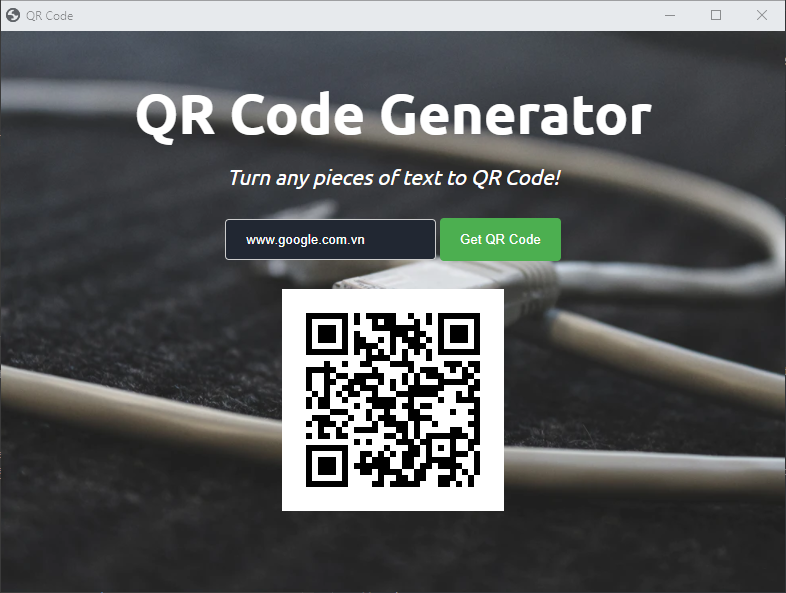
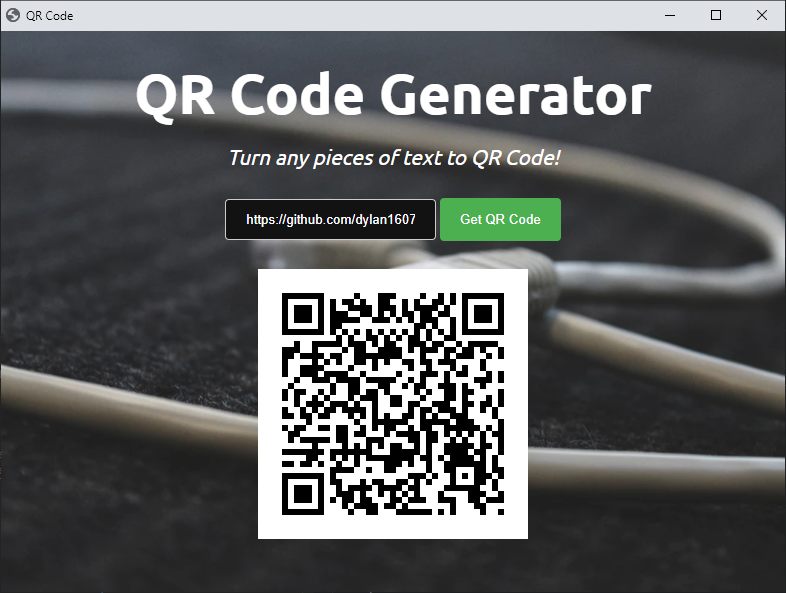
update

Changed region(s): [[0.1527, 0.1214, 0.8244, 0.9106], [0.0305, 0.0, 0.0916, 0.0304], [0.9466, 0.0, 0.9771, 0.0304]]

diff --git a/web/css/style.css b/web/css/style.css
@@ -20,7 +20,7 @@ html {
     text-align: center;
     flex-direction: column;
     justify-content: space-between;
-    padding: 50px 0;
+    padding: 30px 0;
 }
 
 .landing .max-width .heading {

diff --git a/README.md b/README.md
@@ -1,6 +1,10 @@
 <html>
 <h1>QR Code Generator</h1>
 <body>
+    <h2>Intro</h2>
+    <p>
+    GUI apps are created by using EEL, which a little Python library with full access to Python capabilities and library
+    </p>
     <div><i>The directory structure of the project is simple:</i></div>
     <div>
 .<br>
